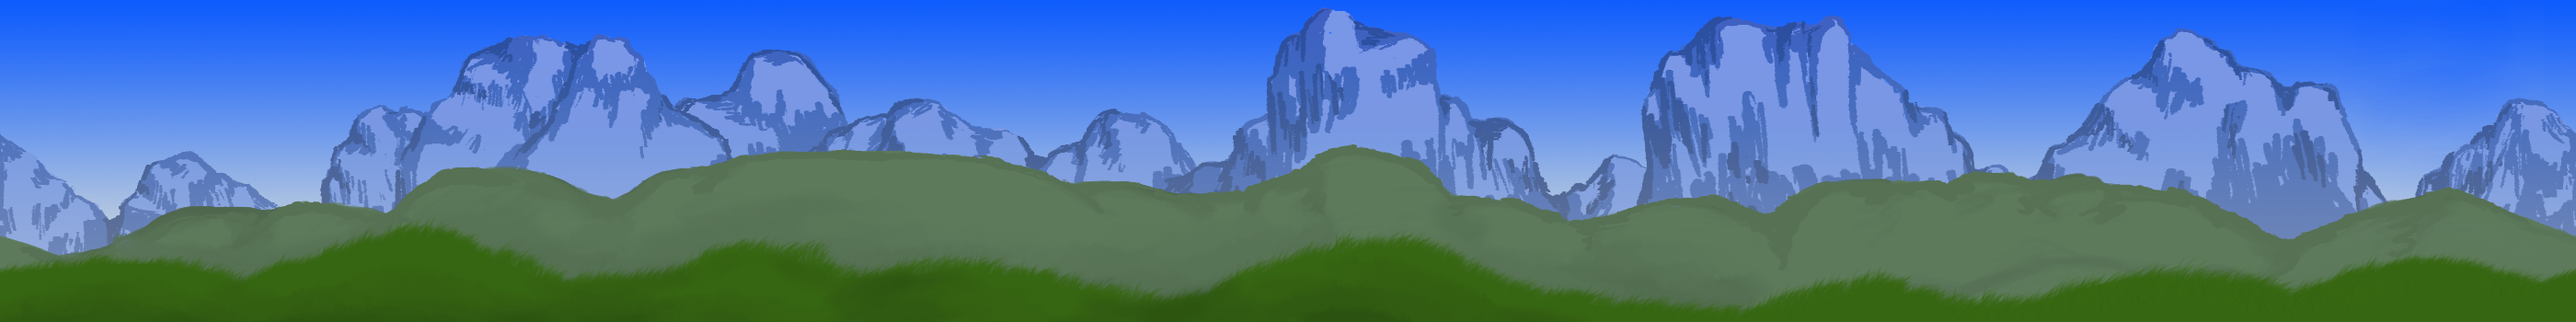
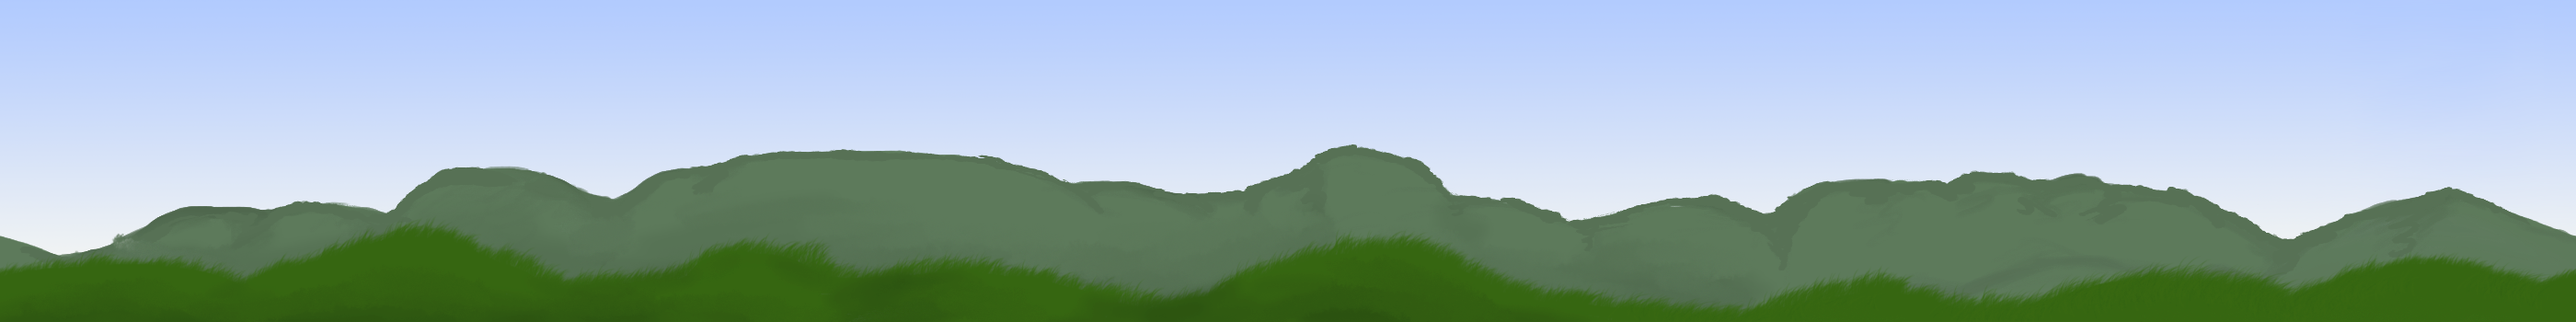
three levels of parallax and an updated readme

diff --git a/js/runGame.js b/js/runGame.js
@@ -7,6 +7,7 @@ function load() {
     loadImage("flower1polinated.png", "flower1pollinated");
     loadImage("wasp.png", "wasp");
     loadImage("deadBee.png", "deadBee");
+    loadImage("mountains.png", "mountains");
 }
 
 /* -------- Start the game! Featuring modial -------- */
@@ -109,7 +110,8 @@ function tick() {
 function update() {
     // Zoomies of various things
     //Scenery
-    bgXOffset += .5;
+    mtnOffset += .5;
+    bgXOffset += .75;
     foregroundXOffset += 4;
 
     // Flowers
@@ -131,12 +133,13 @@ function update() {
 
 function render() {
     // MUST RENDER IN ORDER OF LAYERS
-        renderBackground();
-        renderFlower();
-        renderBee();
-        renderWasp();
-        renderForeground();
-        renderScore();
+    renderMountains();
+    renderBackground();
+    renderFlower();
+    renderBee();
+    renderWasp();
+    renderForeground();
+    renderScore();
 }
 
 function gameOver() {

diff --git a/js/plan.js b/js/plan.js
@@ -185,6 +185,19 @@ function addListeners() {
 
 /* ---------------- Background ---------------- */
 
+function renderMountains() {
+    // establish x coordinates and the "stepper" which is when the animation loops
+    var stepper = mtnOffset % BG_WIDTH;
+    var x1 = 0 - stepper;
+    var x2 = BG_WIDTH - stepper;
+
+    // Draw dem backgrounds
+    ctx.drawImage(images.mountains, x1, 0, BG_WIDTH, canvasHeight);
+    ctx.drawImage(images.mountains, x2, 0, BG_WIDTH, canvasHeight);
+}
+
+/* ---------------- Background ---------------- */
+
 function renderBackground() {
     // establish x coordinates and the "stepper" which is when the animation loops
     var stepper = bgXOffset % BG_WIDTH;

diff --git a/js/global.js b/js/global.js
@@ -19,5 +19,6 @@ let mobile = false;
 
 // Coordinate Variables
 let bgXOffset = 0;
+let mtnOffset = 0;
 let flowerY;
 let foregroundXOffset = 0;

diff --git a/README.md b/README.md
@@ -1,6 +1,8 @@
 # Bee Free: Pollination Station
 
-This is my first coding project. I wanted to do a cute, low-violence game that is fun and relaxing. I also wanted to make my own art assets
+This is my first coding project. I wanted to do a cute, low-violence game that is fun and relaxing. I also wanted to make my own art assets.
+
+Link to the live game! https://009kings.github.io/beeFree/
 
 ## Getting Started
 
@@ -309,7 +311,7 @@ The red eyes were crucial to offset the cuteness of the bee. Following that, I a
 ![Im-im-IMPERMANENCE](https://raw.githubusercontent.com/009kings/beeFree/master/assets/deadBee.png)
 You don't get to see this art aspect much, it's more of a horrific artistic treat for when you get to see the be fall.
 
-And finally, to make me feel better about how horrific the natural world is, I drew some lovely, serene mountains and put on Bob Ross.
+And finally, to make me feel better about how horrific the natural world is, I drew some lovely, serene mountains and put on Bob Ross. I added another layer of Parallax and realised another area wherin I could refactor.
 
 ## Technology Used:
 
@@ -329,3 +331,4 @@ And finally, to make me feel better about how horrific the natural world is, I d
 
 * Thank you to Axel Magnuson for helping me will all things math during the project
 * Kudos to my lecturers at General Assembly for giving me the skills to create this game and helping me out during it's creation
+* Big shoutout to my cohort buddies in helping me solve problems and think of new, clever ideas to help my game get better.
